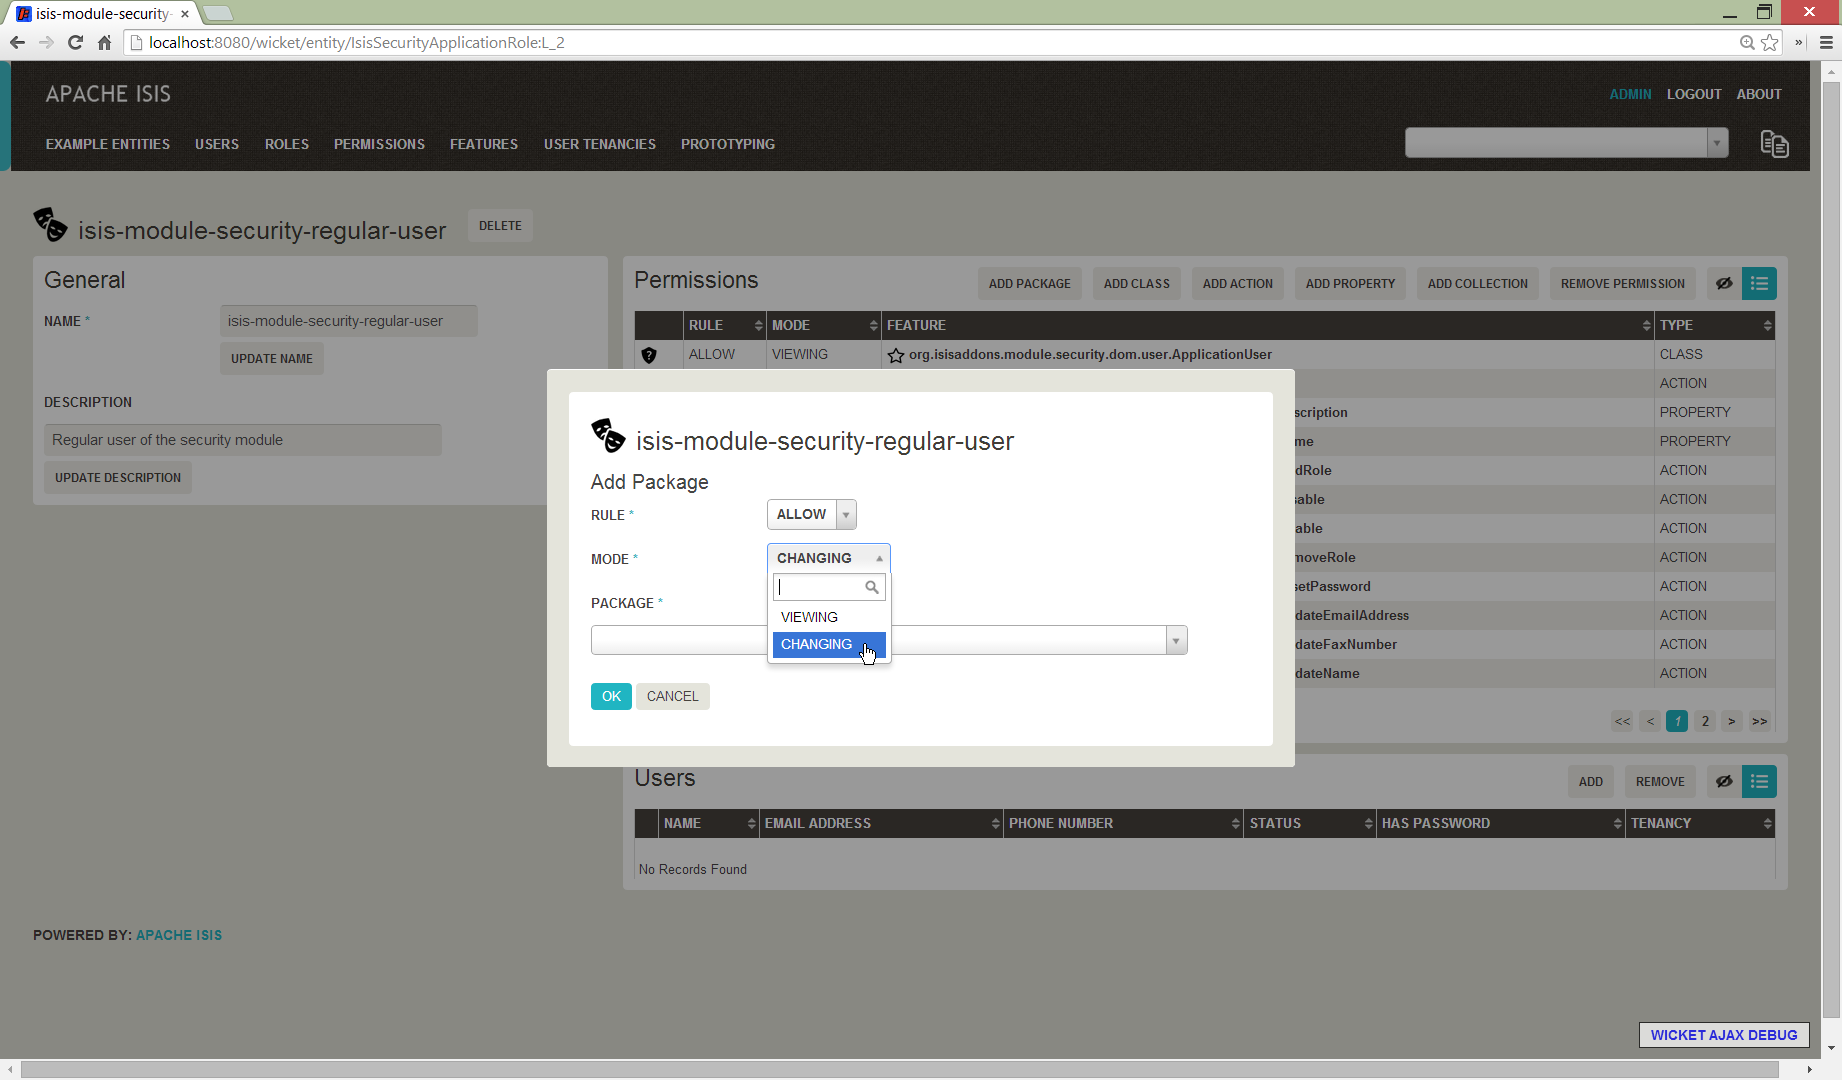
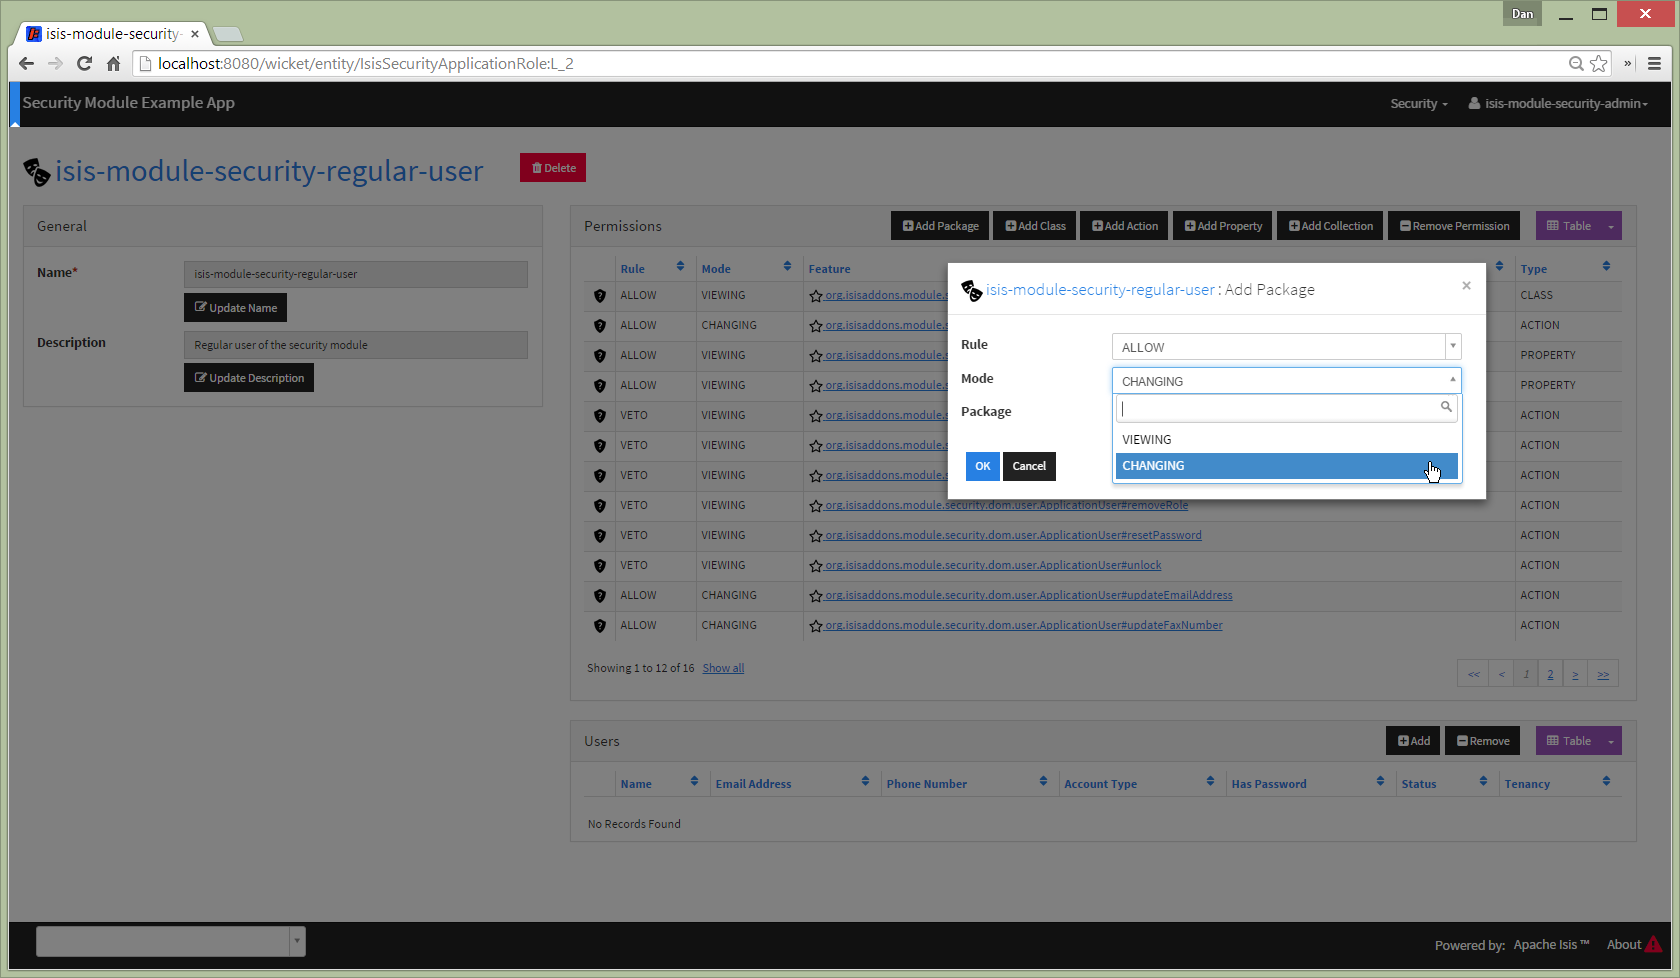
updates to README and screenshots

diff --git a/README.md b/README.md
@@ -20,7 +20,12 @@ A key design objective of this module has been to limit the amount of permission
 
 * if there are conflicting permissions at the same scope, then the _allow_ takes precedence over the __veto__.
   
-The module also provides an implementation of [Apache Shiro](http://shiro.apache.org)'s 
+The module also supports multi-tenancy.  Each user can be associated with a particular tenancy, and Isis can then be configured
+such that they cannot access data in other tenancies.  Moreover, tenancies can be hierarchical; users can (assuming they have
+been granted permission) edit data in "their" tenancy or sub-tenancies, and can view data in parent tenancies (for example,
+global reference data/standing data).
+
+The module also provides an implementation of [Apache Shiro](http://shiro.apache.org)'s
 [AuthorizingRealm](https://shiro.apache.org/static/1.2.2/apidocs/org/apache/shiro/realm/AuthorizingRealm.html).  This 
 allows the users/permissions to be used for Isis' authentication and/or authorization.
 
@@ -49,15 +54,15 @@ also has its own very simple `ExampleEntity` entity and corresponding repository
 
 For further screenshots, see the [screenshot tutorial](https://github.com/isisaddons/isis-module-security/wiki/Screenshot-Tutorial) on the wiki.
 
->
-> Note: these screenshots show the security module running on Apache Isis 1.7.0.   In 1.8.0-SNAPSHOT, the UI provided by Apache Isis has been substantially enhanced.
->
-
 #### Automatically Seeds Roles ####
 
 When the security module starts up, it will automatically (idempotently) seed a number of roles, corresponding permissions and a 
-default `isis-module-security-admin` user.  The corresponding (similarly named) `isis-module-security-admin` role 
-grants all permissions to all classes in the security module itself:
+default `isis-module-security-admin` user.   This user has access to the security menu:
+
+![](https://raw.github.com/isisaddons/isis-module-security/master/images/010-role.png)
+
+One of the roles granted to the `isis-module-security-admin` user is the corresponding (similarly named)
+`isis-module-security-admin` role.  It is this that grants all permissions to all classes in the security module itself:
 
 ![](https://raw.github.com/isisaddons/isis-module-security/master/images/030-role.png)
 
@@ -66,11 +71,21 @@ The `isis-module-security-regular-user` role grants selected permissions to view
 
 ![](https://raw.github.com/isisaddons/isis-module-security/master/images/035-role-regular-user.png)
 
-#### Add permission for all features in a package ####
 
-Permissions created at the package level apply to all classes in all packages and subpackages (that is, recursively).
+#### Add permission at different scopes ####
 
-![](https://raw.github.com/isisaddons/isis-module-security/master/images/040-role-add-permission-package.png)
+Permissions can be created at different scopes or levels (highlighted in the above screenshot).
+
+Permissions created at the *package level* apply to all classes in all packages and subpackages (that is, recursively).
+
+Permissions defined at the *class level* take precedence to those defined at the package level.
+
+For example, a user might have _allow/viewing_ at a parent level, but have this escalated to _allow/changing_ for a
+particular class.  Conversely, the class-level permission might veto access.
+
+Permissions can also be defined the *member level*: action, property or collection.  These override permissions
+defined at either the class- or package-level.
+
 
 #### Permissions can ALLOW or VETO access ####
 
@@ -96,60 +111,18 @@ An _allow/changing_ permission naturally enough implies _allow/viewing_, while c
 
 #### Specify package ####
 
-The list of packages is derived from Isis' own metamodel.
+The list of packages (or classes, or class members) is derived from Isis' own metamodel.
 
 ![](https://raw.github.com/isisaddons/isis-module-security/master/images/070-permission-package-from-isis-metamodel.png)
 
-#### Add permission for all members in a class ####
-
-Permissions defined at the class level take precedence to those defined at the package level.  For example, a user
-might have _allow/viewing_ at a parent level, but have this escalated to _allow/changing_ for a particular
-class.  Conversely, the class-level permission might veto access.
-
-![](https://raw.github.com/isisaddons/isis-module-security/master/images/090-role-add-permission-class.png)
-
-#### Add permission to an individual action of a member ####
-
-Permissions can also be defined at the member level: action, property or collection.  These override permissions 
-defined at either the class- or package-level.
-
-For example, to add a permission for an individual action:
-
-![](https://raw.github.com/isisaddons/isis-module-security/master/images/110-role-add-permission-action.png)
-
-#### Application feature for a class member ####
-
-Class members (action, property or collection) lists the permissions defined against that member:
-
-![](https://raw.github.com/isisaddons/isis-module-security/master/images/280-feature.png)
-
-It provides access in turn to the parent (class) feature... 
-
-#### Application feature for a class ####
-
-The class feature lists associated permissions (if any), also the child properties, collections and actions:
-
-![](https://raw.github.com/isisaddons/isis-module-security/master/images/283-class-feature.png)
-
-It also provides access to its parent (package) feature ...
-
-#### Application feature for a package ####
-
-The package feature lists its associated permissions (if any), its contents (class or package features) and also 
-provides access to its parent (package) feature.
-
-![](https://raw.github.com/isisaddons/isis-module-security/master/images/286-package-feature.png)
 
 #### Application users ####
 
-Application users can have either a _local_ or a _delegated_ account type.  Local users are authenticated and authorized
-through the module's Shiro realm implementation.  Optionally a delegate authentication realm can be configured; if so 
-then delegated users can be created and their credentials will be authenticated by the delegate authentication realm.
+Application users can have either a _local_ or a _delegated_ account type.
 
-If configured _without_ a delegate realm, then the users must be created by the administrator.    If configured _with_
-a delegate realm, then the user will be created automatically if that user attempts to log on.  However, for safety 
-their `ApplicationUser` accounts are created in a disabled state and with no roles, so the administrator is still required
-to update them.
+* Local users are authenticated and authorized through the module's Shiro realm implementation.  The users are created explicitly by the administrator.
+
+* Optionally a delegate authentication realm can be configured; if so then delegated users can be created and their credentials will be authenticated by the delegate authentication realm.  Users are created _automatically_ when that user attempts to log in.  However, for safety their `ApplicationUser` accounts are created in a disabled state and with no roles, so the administrator is still required to update them.
 
 Once the user is created, then additional information about that user can be captured, including their name and
 contact details.  This information is not otherwise used by the security module, but may be of use to other parts
@@ -487,7 +460,7 @@ and users:
     * _allow_ _changing_ of the selected "self-service" actions of the `org.isisaddons.module.security.app.dom.ApplicationUser` class
 * `isis-module-security-fixture` role
     * _allow_ _changing_ of `org.isisaddons.module.security.fixture` package (run example fixtures if prototyping) 
-* `admin` user
+* `isis-module-security-admin` user
     * granted `isis-module-security-admin` role
 * `isis-applib-fixtureresults` role
     * _allow_ _changing_ of `org.apache.isis.applib.fixturescripts.FixtureResult` class
@@ -501,13 +474,14 @@ Limitations in current implementation:
 - It is not possible to set permissions on the root package.  The workaround is to specify for `org` or `com` top-level package instead.
 
 Ideas for future features:
+- enhance the auto-creation of delegated user accounts, so that an initial role can be assigned and the user left as enabled
 - users could possibly be extended to include user settings, refactored out from [isis-module-settings](https://github.com/isisaddons/isis-module-settings)
 - features could possibly be refactored out/merged with [isis-module-devutils](https://github.com/isisaddons/isis-module-devutils). 
 - hierarchical roles
 
 ## Change Log ##
 
-* `1.8.0` (snapshot) - released against Isis 1.8.0.  ApplicationTenancy extended to support hierarchical tenancies, with path as primary key (nb: breaking change), support to make easier to extend (pluggable factories and events for all actions). MeService on TERTIARY menuBar.
+* `1.8.0` (snapshot) - released against Isis 1.8.0.  `ApplicationTenancy` extended to support hierarchical tenancies, with path as primary key (nb: breaking change), support to make easier to extend (pluggable factories and events for all actions). MeService on TERTIARY menuBar.
 * `1.7.0` - released against Isis 1.7.0
 * `1.6.2` - made more resilient so can be called by an application's own 'security seed' service
 * `1.6.1` - support for account types and delegated authentication realm
@@ -518,7 +492,7 @@ Ideas for future features:
  
 #### License ####
 
-    Copyright 2014 Dan Haywood
+    Copyright 2014-2015 Dan Haywood
 
     Licensed under the Apache License, Version 2.0 (the
     "License"); you may not use this file except in compliance
